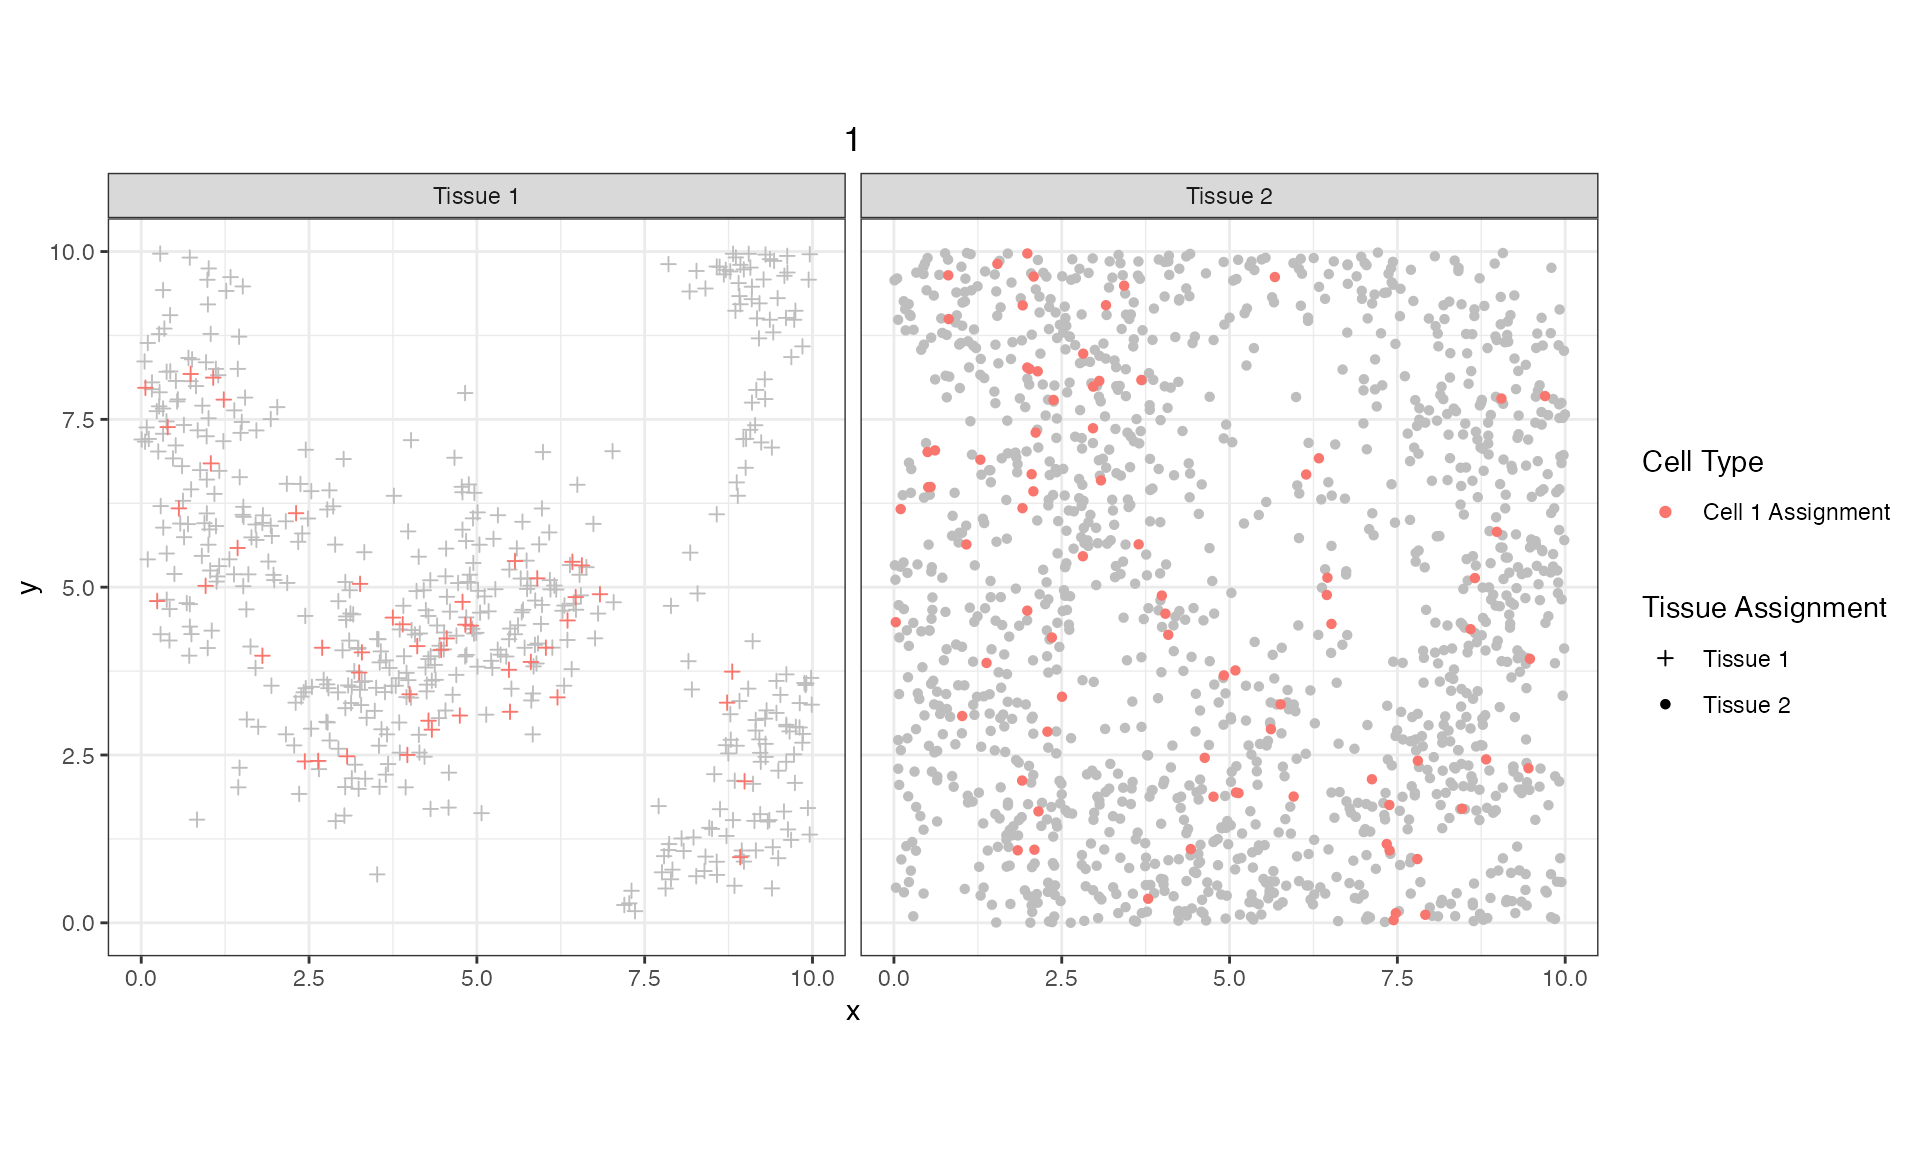
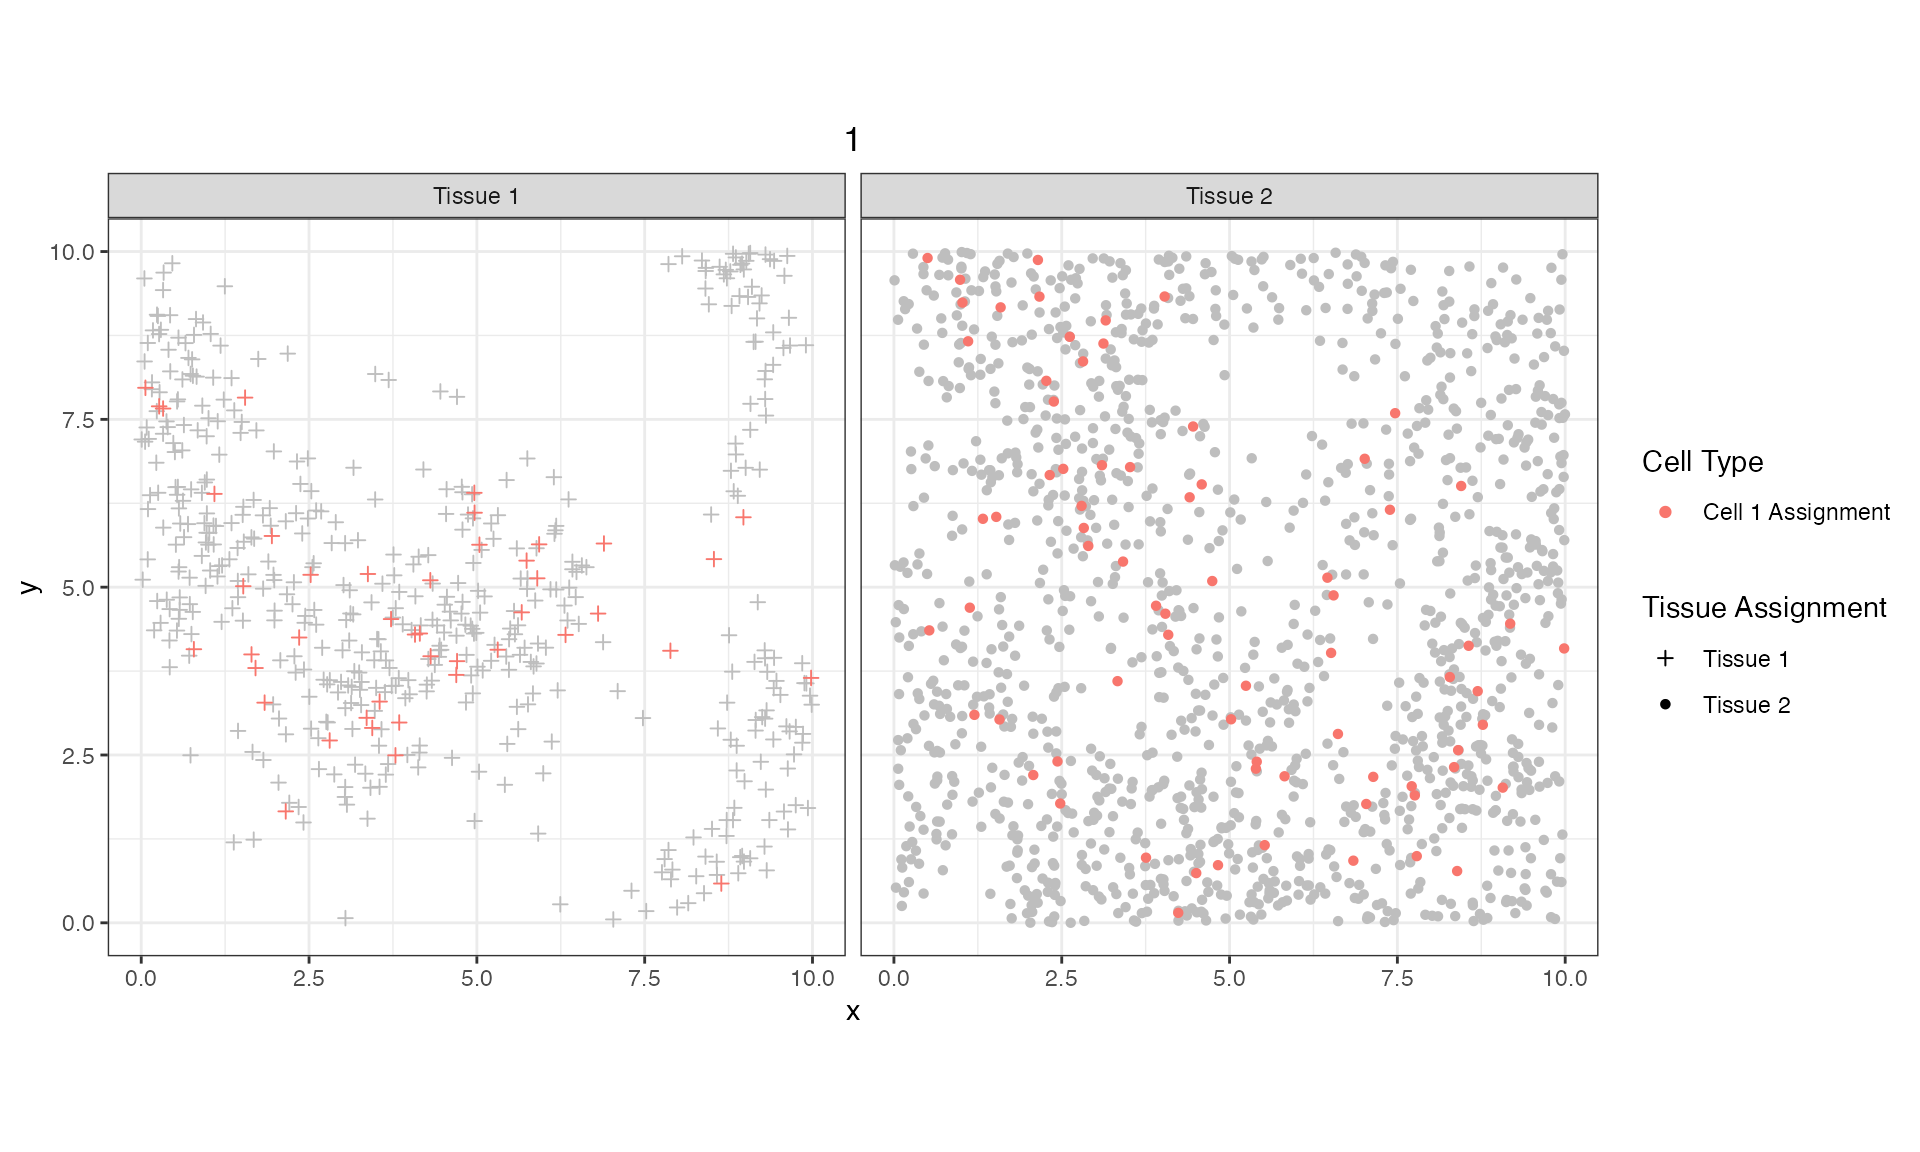
finished introduction article

diff --git a/docs/articles/1.Introduction.html b/docs/articles/1.Introduction.html
@@ -377,17 +377,6 @@ cells also with some noise.</p>
 <div class="sourceCode" id="cb13"><pre class="downlit sourceCode r">
 <code class="sourceCode R"><span><span class="fu"><a href="../reference/PlotSimulation.html">PlotSimulation</a></span><span class="op">(</span><span class="va">sim_object</span>, which <span class="op">=</span> <span class="fl">1</span>, what <span class="op">=</span> <span class="st">"whole core"</span><span class="op">)</span></span></code></pre></div>
 <p><img src="1.Introduction_files/figure-html/unnamed-chunk-11-1.png" width="960"></p>
-<p>Lastly, the data is likely wanted in tabular format. Since there are
-multiple simulated point patterns, the function
-<code><a href="../reference/CreateSpatialList.html">CreateSpatialList()</a></code> returns a list of data frames
-containing cell x and y locations, the tissue that the cell belongs to,
-whether the cell falls in a hole, and the positivity of the different
-cell types.</p>
-<div class="sourceCode" id="cb14"><pre class="downlit sourceCode r">
-<code class="sourceCode R"><span><span class="va">spatial_list</span> <span class="op">=</span> <span class="fu"><a href="../reference/CreateSpatialList.html">CreateSpatialList</a></span><span class="op">(</span>sim_object <span class="op">=</span> <span class="va">sim_object</span><span class="op">)</span></span></code></pre></div>
-<p>The spatial list can now be used with packages like
-<a href="https://github.com/FridleyLab/spatialTIME" class="external-link">spatialTIME</a> to compute spatial statistics on all of the
-simulated data frames.</p>
 </div>
 <div class="section level3">
 <h3 id="bivariate-simulation">Bivariate Simulation<a class="anchor" aria-label="anchor" href="#bivariate-simulation"></a>
@@ -399,7 +388,7 @@ when simulating the cell types. Lets create another
 <code><a href="../reference/GenerateCellPositivity.html">GenerateCellPositivity()</a></code>. A great feature of mIFsim is that
 it works nicely with <a href="https://magrittr.tidyverse.org" class="external-link">magrittr</a> and the pipe function to
 immediately pass output from one function to the next.</p>
-<div class="sourceCode" id="cb15"><pre class="downlit sourceCode r">
+<div class="sourceCode" id="cb14"><pre class="downlit sourceCode r">
 <code class="sourceCode R"><span><span class="co">#set seed</span></span>
 <span><span class="fu"><a href="https://rdrr.io/r/base/Random.html" class="external-link">set.seed</a></span><span class="op">(</span><span class="fl">333</span><span class="op">)</span></span>
 <span><span class="co">#create the new object</span></span>
@@ -411,7 +400,103 @@ immediately pass output from one function to the next.</p>
 <span><span class="co">#&gt; No `window` specified - defaulting to x (0, 10); y (0, 10)</span></span>
 <span><span class="co">#&gt; Computing density heatmap</span></span>
 <span><span class="co">#&gt; Computing tissue probability</span></span></code></pre></div>
+<p>As previously mentioned, we can specify a <code>correlation</code>
+values of 1 to use the same kernal for both cell types which will assign
+them in such a way that will be identifable as colocalized between Cell
+Type 1 and Cell Type 2. First, the high correlation:</p>
+<div class="sourceCode" id="cb15"><pre class="downlit sourceCode r">
+<code class="sourceCode R"><span><span class="va">bivariate_sim_tmp</span>  <span class="op">=</span> <span class="fu"><a href="../reference/GenerateCellPositivity.html">GenerateCellPositivity</a></span><span class="op">(</span><span class="va">bivariate_sim</span>, k <span class="op">=</span> <span class="fl">4</span>,</span>
+<span>                                    sdmin <span class="op">=</span> <span class="fl">3</span>, sdmax <span class="op">=</span> <span class="fl">5</span>,</span>
+<span>                                    density_heatmap <span class="op">=</span> <span class="cn">T</span>, step_size <span class="op">=</span> <span class="fl">0.1</span>, cores <span class="op">=</span> <span class="fl">1</span>, probs <span class="op">=</span> <span class="fu"><a href="https://rdrr.io/r/base/c.html" class="external-link">c</a></span><span class="op">(</span><span class="fl">0.0</span>, <span class="fl">0.1</span><span class="op">)</span>,</span>
+<span>                                    correlation <span class="op">=</span> <span class="fl">1</span><span class="op">)</span></span>
+<span><span class="co">#&gt; Computing density heatmap for Cell 1</span></span>
+<span><span class="co">#&gt; Computing probability for Cell 1</span></span>
+<span><span class="co">#&gt; Adjusting density heatmap for Cell 2</span></span>
+<span><span class="co">#&gt; Computing probability for Cell 2</span></span>
+<span></span>
+<span><span class="fu"><a href="../reference/PlotSimulation.html">PlotSimulation</a></span><span class="op">(</span><span class="va">bivariate_sim_tmp</span>, which <span class="op">=</span> <span class="fl">1</span>, what <span class="op">=</span> <span class="st">"whole core"</span><span class="op">)</span></span></code></pre></div>
+<p><img src="1.Introduction_files/figure-html/unnamed-chunk-13-1.png" width="960"></p>
+<p>We can see that in locations where Cell Type 1 is, Cell Type 2 is
+also present. There are a couple cells that are assigned as positive for
+both Cell Type 1 and Cell Type 2 which should be taken into
+consideration for next steps. If looking at colocalization of mutually
+exclusive cell types, these should be removed.</p>
+<p>How does this compare with strong segregation between Cell Type 1 and
+Cell Type 2?</p>
+<div class="sourceCode" id="cb16"><pre class="downlit sourceCode r">
+<code class="sourceCode R"><span><span class="va">bivariate_sim_tmp</span>  <span class="op">=</span> <span class="fu"><a href="../reference/GenerateCellPositivity.html">GenerateCellPositivity</a></span><span class="op">(</span><span class="va">bivariate_sim</span>, k <span class="op">=</span> <span class="fl">4</span>,</span>
+<span>                                    sdmin <span class="op">=</span> <span class="fl">3</span>, sdmax <span class="op">=</span> <span class="fl">5</span>,</span>
+<span>                                    density_heatmap <span class="op">=</span> <span class="cn">T</span>, step_size <span class="op">=</span> <span class="fl">0.1</span>, cores <span class="op">=</span> <span class="fl">1</span>, probs <span class="op">=</span> <span class="fu"><a href="https://rdrr.io/r/base/c.html" class="external-link">c</a></span><span class="op">(</span><span class="fl">0.0</span>, <span class="fl">0.1</span><span class="op">)</span>,</span>
+<span>                                    correlation <span class="op">=</span> <span class="op">-</span><span class="fl">1</span><span class="op">)</span></span>
+<span><span class="co">#&gt; Computing density heatmap for Cell 1</span></span>
+<span><span class="co">#&gt; Computing probability for Cell 1</span></span>
+<span><span class="co">#&gt; Adjusting density heatmap for Cell 2</span></span>
+<span><span class="co">#&gt; Computing probability for Cell 2</span></span>
+<span></span>
+<span><span class="fu"><a href="../reference/PlotSimulation.html">PlotSimulation</a></span><span class="op">(</span><span class="va">bivariate_sim_tmp</span>, which <span class="op">=</span> <span class="fl">1</span>, what <span class="op">=</span> <span class="st">"whole core"</span><span class="op">)</span></span></code></pre></div>
+<p><img src="1.Introduction_files/figure-html/unnamed-chunk-14-1.png" width="960"></p>
+<p>In Tissue 2 it’s easiser to see regions of only Cell Type 1 and
+regions of only Cell Type 2.</p>
 </div>
+</div>
+<div class="section level2">
+<h2 id="exporting-data">Exporting Data<a class="anchor" aria-label="anchor" href="#exporting-data"></a>
+</h2>
+<p>Lastly, the data is likely wanted in tabular format. Since there are
+multiple simulated point patterns, the function
+<code><a href="../reference/CreateSpatialList.html">CreateSpatialList()</a></code> returns a list of data frames
+containing cell x and y locations, the tissue that the cell belongs to,
+whether the cell falls in a hole, and the positivity of the different
+cell types.</p>
+<div class="sourceCode" id="cb17"><pre class="downlit sourceCode r">
+<code class="sourceCode R"><span><span class="va">spatial_list</span> <span class="op">=</span> <span class="fu"><a href="../reference/CreateSpatialList.html">CreateSpatialList</a></span><span class="op">(</span>sim_object <span class="op">=</span> <span class="va">bivariate_sim_tmp</span><span class="op">)</span></span>
+<span><span class="fu"><a href="https://rdrr.io/r/utils/head.html" class="external-link">head</a></span><span class="op">(</span><span class="va">spatial_list</span><span class="op">[[</span><span class="fl">1</span><span class="op">]</span><span class="op">]</span><span class="op">)</span></span>
+<span><span class="co">#&gt;           x        y Tissue Assignment Cell 1 Assignment Cell 2 Assignment</span></span>
+<span><span class="co">#&gt; 1 5.7130558 1.274980          Tissue 1                 1                 0</span></span>
+<span><span class="co">#&gt; 2 0.2011937 2.748664          Tissue 2                 0                 0</span></span>
+<span><span class="co">#&gt; 3 7.2355739 6.800332          Tissue 2                 0                 0</span></span>
+<span><span class="co">#&gt; 4 6.0939363 6.601037          Tissue 2                 1                 0</span></span>
+<span><span class="co">#&gt; 5 3.0671935 2.480361          Tissue 2                 0                 0</span></span>
+<span><span class="co">#&gt; 6 0.6350984 1.242892          Tissue 1                 0                 0</span></span></code></pre></div>
+<p>Alternatively, there is the ability with
+<code><a href="../reference/CreateSpatialList.html">CreateSpatialList()</a></code> to export all of the spatial pattern
+data as a single data frame using <code>single_df</code> set to
+<code>TRUE</code>. This adds an <code>Image Name</code> column that
+keeps the spatial pattern data separate, and can split back into a list
+later for use with <code><a href="../reference/SummariseSpatial.html">SummariseSpatial()</a></code>, which creates a core
+level counts for the different cell types.</p>
+<div class="sourceCode" id="cb18"><pre class="downlit sourceCode r">
+<code class="sourceCode R"><span><span class="va">single_dataframe</span> <span class="op">=</span> <span class="fu"><a href="../reference/CreateSpatialList.html">CreateSpatialList</a></span><span class="op">(</span>sim_object <span class="op">=</span> <span class="va">bivariate_sim_tmp</span>, single_df <span class="op">=</span> <span class="cn">TRUE</span><span class="op">)</span></span>
+<span><span class="fu"><a href="https://rdrr.io/r/utils/head.html" class="external-link">head</a></span><span class="op">(</span><span class="va">single_dataframe</span><span class="op">)</span></span>
+<span><span class="co">#&gt;       Image Name         x        y Tissue Assignment Cell 1 Assignment</span></span>
+<span><span class="co">#&gt; 1 Spatial Data 1 5.7130558 1.274980          Tissue 1                 1</span></span>
+<span><span class="co">#&gt; 2 Spatial Data 1 0.2011937 2.748664          Tissue 2                 0</span></span>
+<span><span class="co">#&gt; 3 Spatial Data 1 7.2355739 6.800332          Tissue 2                 0</span></span>
+<span><span class="co">#&gt; 4 Spatial Data 1 6.0939363 6.601037          Tissue 2                 1</span></span>
+<span><span class="co">#&gt; 5 Spatial Data 1 3.0671935 2.480361          Tissue 2                 0</span></span>
+<span><span class="co">#&gt; 6 Spatial Data 1 0.6350984 1.242892          Tissue 1                 0</span></span>
+<span><span class="co">#&gt;   Cell 2 Assignment</span></span>
+<span><span class="co">#&gt; 1                 0</span></span>
+<span><span class="co">#&gt; 2                 0</span></span>
+<span><span class="co">#&gt; 3                 0</span></span>
+<span><span class="co">#&gt; 4                 0</span></span>
+<span><span class="co">#&gt; 5                 0</span></span>
+<span><span class="co">#&gt; 6                 0</span></span></code></pre></div>
+<div class="sourceCode" id="cb19"><pre class="downlit sourceCode r">
+<code class="sourceCode R"><span><span class="va">summary_data</span> <span class="op">=</span> <span class="fu"><a href="../reference/SummariseSpatial.html">SummariseSpatial</a></span><span class="op">(</span>spatial_list <span class="op">=</span> <span class="va">spatial_list</span>, markers <span class="op">=</span> <span class="fu"><a href="https://rdrr.io/r/base/c.html" class="external-link">c</a></span><span class="op">(</span><span class="st">"Cell 1 Assignment"</span>, <span class="st">"Cell 2 Assignment"</span><span class="op">)</span><span class="op">)</span></span>
+<span><span class="fu"><a href="https://rdrr.io/r/utils/head.html" class="external-link">head</a></span><span class="op">(</span><span class="va">summary_data</span><span class="op">)</span></span>
+<span><span class="co">#&gt; <span style="color: #949494;"># A tibble: 5 × 6</span></span></span>
+<span><span class="co">#&gt;   `Sample Tag`   `Total Cells` `Cell 1 Assignment` `Cell 2 Assignment`</span></span>
+<span><span class="co">#&gt;   <span style="color: #949494; font-style: italic;">&lt;chr&gt;</span>                  <span style="color: #949494; font-style: italic;">&lt;int&gt;</span>               <span style="color: #949494; font-style: italic;">&lt;dbl&gt;</span>               <span style="color: #949494; font-style: italic;">&lt;dbl&gt;</span></span></span>
+<span><span class="co">#&gt; <span style="color: #BCBCBC;">1</span> Spatial Data 1          <span style="text-decoration: underline;">2</span>495                 151                 107</span></span>
+<span><span class="co">#&gt; <span style="color: #BCBCBC;">2</span> Spatial Data 2          <span style="text-decoration: underline;">2</span>450                 134                 100</span></span>
+<span><span class="co">#&gt; <span style="color: #BCBCBC;">3</span> Spatial Data 3          <span style="text-decoration: underline;">2</span>500                 145                 122</span></span>
+<span><span class="co">#&gt; <span style="color: #BCBCBC;">4</span> Spatial Data 4          <span style="text-decoration: underline;">2</span>514                 167                 100</span></span>
+<span><span class="co">#&gt; <span style="color: #BCBCBC;">5</span> Spatial Data 5          <span style="text-decoration: underline;">2</span>486                 147                 119</span></span>
+<span><span class="co">#&gt; <span style="color: #949494;"># ℹ 2 more variables: `% Cell 1 Assignment` &lt;dbl&gt;, `% Cell 2 Assignment` &lt;dbl&gt;</span></span></span></code></pre></div>
+<p>The spatial list and summary table can now be used with packages like
+<a href="https://github.com/FridleyLab/spatialTIME" class="external-link">spatialTIME</a> to compute spatial statistics on all of the
+simulated data frames.</p>
 </div>
   </main><aside class="col-md-3"><nav id="toc"><h2>On this page</h2>
     </nav></aside>
